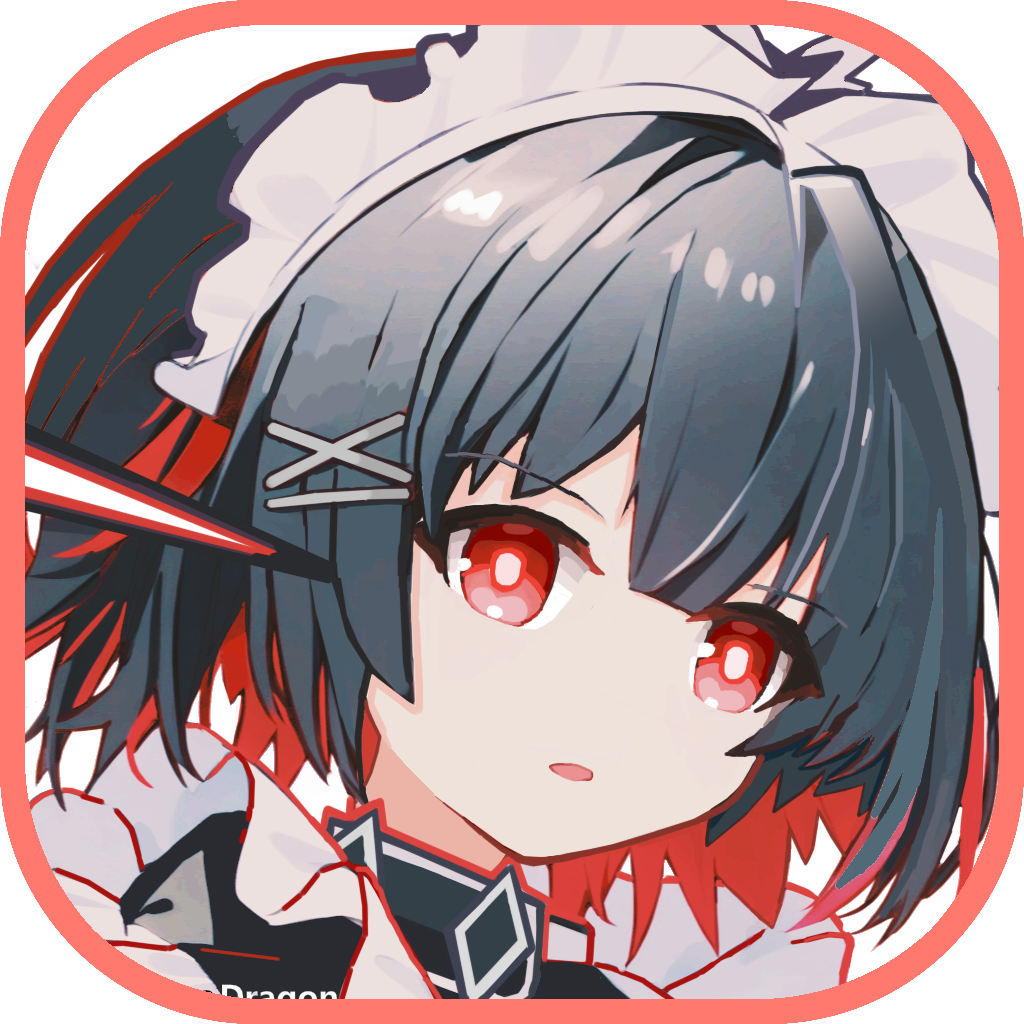
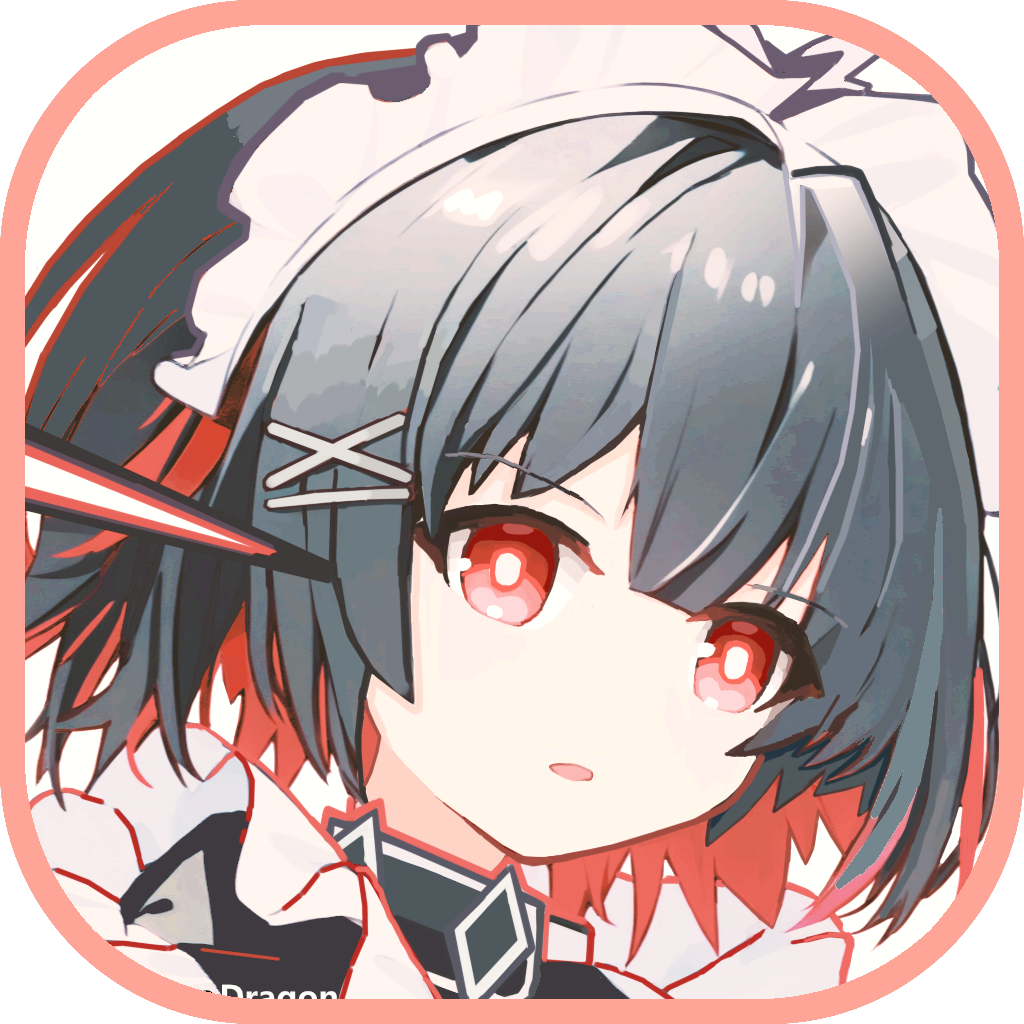
美化README，更新app图标 (#744)

diff --git a/.github/README.md b/.github/README.md
@@ -1,11 +1,15 @@
 <!-- markdownlint-restore -->
 <div align="center">
 
-<img src="./image/ellen.png" width="200">
+<img src="https://socialify.git.ci/DoctorReid/ZenlessZoneZero-OneDragon/image?description=1&font=Inter&language=1&logo=https%3A%2F%2Fgithub.com%2FDoctorReid%2FZenlessZoneZero-OneDragon%2Fblob%2Fmain%2F.github%2Fimage%2Fellen.png%3Fraw%3Dtrue&name=1&owner=1&pattern=Charlie+Brown&theme=Light" alt="ZenlessZoneZero-OneDragon"/>
+<div>
 
-# ZenlessZoneZero - OneDragon
+---
 
-**绝区零 - 一条龙**
+</div>
+
+__ZenlessZoneZero-OneDragon__
+
 
 <div>
     <img alt="platform" src="https://img.shields.io/badge/platform-Windows-blueviolet">
@@ -17,64 +21,84 @@
 </div>
 <br>
 
-学习实践 __图像识别 & 自动化__ 的大作业
+学习实践 __图像识别 & 自动化__ 的智能解决方案
 
-如果喜欢本项目，可右上角送作者一个`Star` ✨
-
-❤ [ [官方网站](https://one-dragon.org/zzz/zh/home.html) ] & [ 唯一指定 QQ 群 `861603314` ] ❤
+✨ 如果喜欢本项目，欢迎右上角点亮`Star`支持 ✨
 
 </div>
-</br>
-<!-- markdownlint-restore -->
 
-## 支持功能
+## 🚀 功能介绍
 
-- **自动战斗：** 支持自定义逻辑、技能标记、条件、变量等进阶用法
-- **闪避助手：** 基于声音、图像一体化识别，轻占用，高准确
-- **日常清理：** 影像店、刮刮乐、咖啡店、材料、奖励等全日常清理
-- **自动空洞：** 基于大模型训练的识别、事件、寻路的功能模块
-- **更多功能：** 拿命验收、空洞业绩、定时启动、多账号切换……
+<div align="left">
 
-## 图片展示
+🤖 __自动战斗__：支持自定义逻辑、技能标记、条件、变量等进阶用法  
+🛡 __闪避助手__：基于声音、图像一体化模型识别，轻占用，高准确  
+🧹 __日常清理__：影像店、刮刮乐、咖啡店、材料、奖励等全日常清理  
+☕ __空洞作战__：基于大模型训练的识别、事件、寻路的功能模块  
+⏲ __更多功能__： 定时启动、多账号切换、定时任务、自动对话……
 
-<img alt="App" src="./image/app.png" width="852" height="312" />
+</div>
 
-## 快速开始
+## 📸 页面预览
 
-[快速开始](https://one-dragon.org/zzz/zh/quickstart.html)
+<div align="center">
+  
+![App Interface](./image/app.png#gh-light-mode-only "操作界面")
+*✨ 简洁直观的操作界面 ✨*
 
-## 免责声明
+</div>
 
-- 本项目仅供学习交流使用。
+## 🛠 快速开始
 
-- 开发者团队拥有本项目的最终解释权。
+🔧 [新手入门指南](https://one-dragon.org/zzz/zh/quickstart.html)  
+✨ [一条龙官网](https://one-dragon.org/)
 
-- 使用本项目产生的所有问题与本项目与及开发者团队无关。
+## ⚠ 免责声明
 
-- 本项目未授权任何个人、商家、自媒体账号等进行宣传，并收取任何费用(宣传、使用等)的行为。
+> 📌 本项目仅供学习交流，开发者团队保留最终解释权  
+> 🎨 项目LOGO版权归[巡夜子](https://github.com/yokuminto)及全体开发者所有  
+> ⚖ 使用本工具产生的一切风险需自行承担  
+> 🚫 本项目未授权任何个人、商家、自媒体账号等进行售卖  
+> 🚫 若您遇到商家使用本软件进行代练并收费，产生的任何问题及后果与本软件无关  
+> 🚫 开发者团队不会为您提供任何"售后"服务
 
-- 若您遇到商家使用本软件进行代练并收费，产生的任何问题及后果与本软件无关；开发者团队也不会为您提供任何"售后"服务。
+## 🌟 贡献者们
 
-- 本软件 logo 由 [巡夜子](https://github.com/yokuminto) 绘制，巡夜子及软件全体开发者保留所有权利。不得在未经授权的情况下使用本软件 logo，或将其用于任何用途。
+<div>
 
-## 贡献/参与者
+感谢参与项目的所有贡献者 ([完整名单](https://github.com/DoctorReid/ZenlessZoneZero-OneDragon/graphs/contributors))：
 
-感谢所有参与到开发的朋友们~
+![Contributors](https://contrib.rocks/image?repo=DoctorReid/ZenlessZoneZero-OneDragon&columns=12)
 
-![Contributors](https://contrib.rocks/image?repo=DoctorReid/ZenlessZoneZero-OneDragon)
+是你们的参与共同构建了这个项目，让这个项目越来越好♡  
+如果想要参与开发，可以参考 [一条龙官网](https://one-dragon.org/) 对应的开发指南，我们期待你的加入
 
-## 加入讨论
+</div>
 
-❤ [ 唯一指定 QQ 群 `861603314` ] ❤
+## 📢 加入社区
 
-点Star后，填入Github账号的ID作为入群申请即可 (右上角头像 -> Your Profile，网址上显示的ID)。
+<div>
 
-❤ [ 新手村 QQ 群 `925199190` ] ❤
+🔗 **官方QQ群组**  
+👉 主群：`861603314`(请参阅下方内容)   
+👶 新手村：`925199190`
 
-## 赞助
+💬 [问题反馈](https://github.com/DoctorReid/ZenlessZoneZero-OneDragon/issues)
 
-如果喜欢本项目，可以为作者的赞助一点服务器维护费用~
+> 申请主群，需要点星星，并填入Github账号的ID作为入群申请 (右上角头像 -> Your Profile，网址上显示的ID)，请遵守群规，友善交流。
 
-感谢 [小伙伴们的支持](https://one-dragon.org/other/zh/like/thanks_2024.html)
 
-<img alt="赞助" src="./image/sponsor.png" width="512" height="256" />
+
+</div>
+
+## ☕ 支持我们
+
+<div align="center">
+
+如果本项目为您带来便利，欢迎支持服务器维护：
+
+<img src="./image/sponsor.png" width = "480" alt="图片名称" align=center />
+
+💖 查看[致谢名单](https://one-dragon.org/other/zh/like/thanks_2024.html)
+
+</div>
